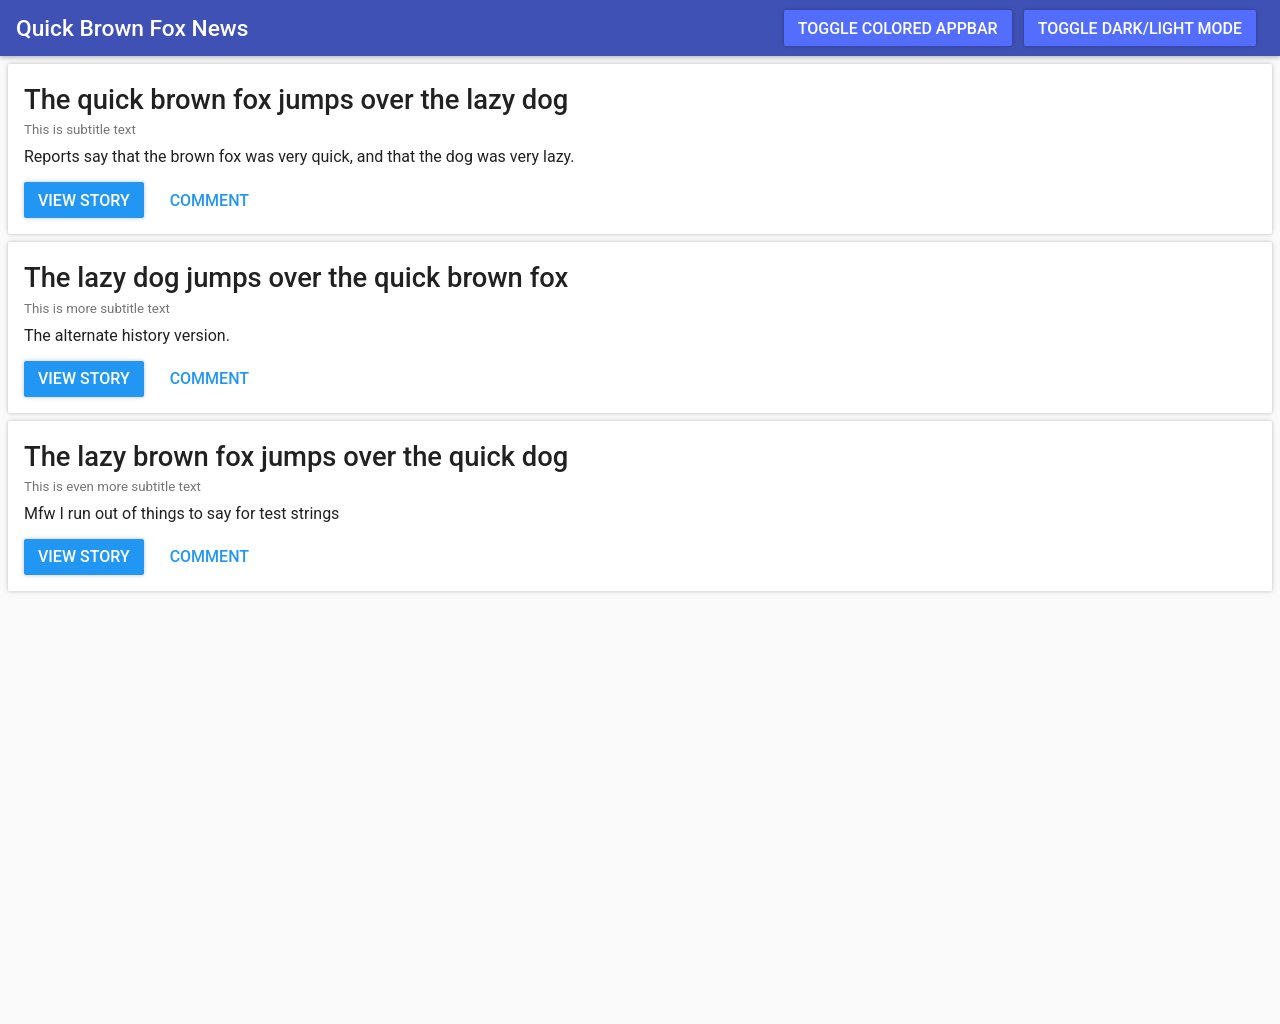
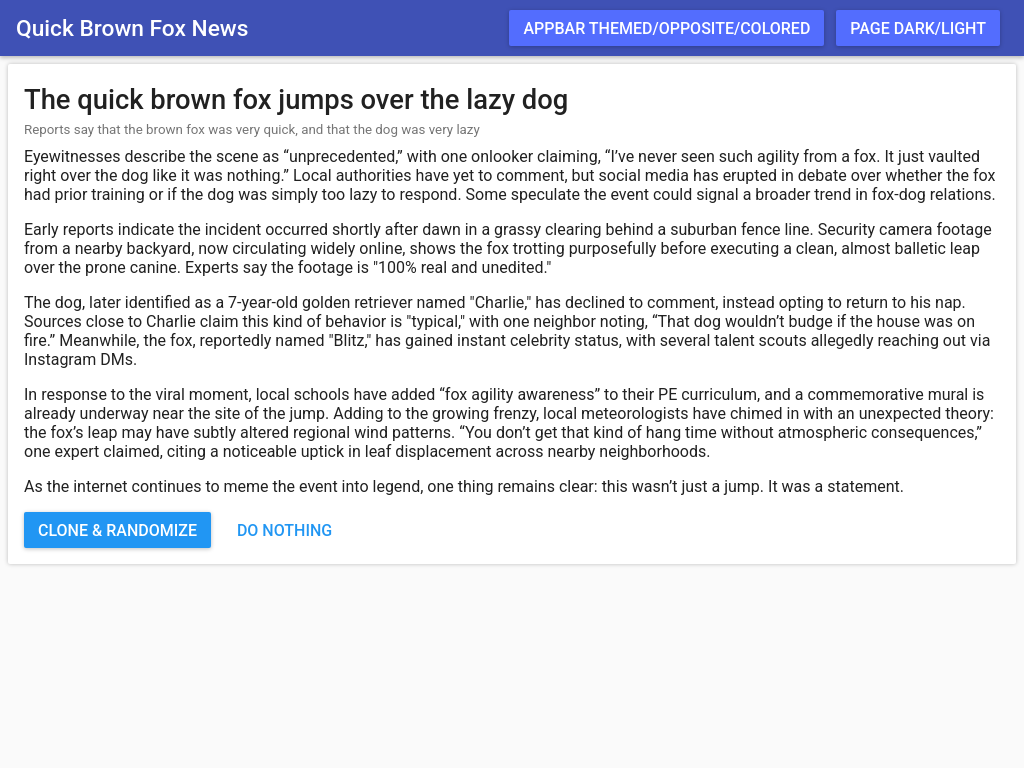
readme & example improvements, add opposite navbar, slight button-related changes

Changed region(s): [[0.0, 0.0, 1.0, 0.5938], [0.0, 0.625, 0.875, 0.7188]]

diff --git a/md1/example/basic-cards-appbar.html b/md1/example/basic-cards-appbar.html
@@ -10,15 +10,58 @@
         <link rel="stylesheet" href="../card.css">
         <link rel="stylesheet" href="../color.css">
         <link rel="stylesheet" href="../main.css">
+    </head>
+    <body class="mm mm-md1 mm-theme-light mm-primary-indigo mm-secondary-blue">
+        <header class="mm-appbar mm-appbar-colored">
+            <div class="mm-appbar-left">
+                <h2>Quick Brown Fox News</h2>
+            </div>
 
-        <script defer>
-            function appbarToggle() {
+            <div class="mm-appbar-right">
+                <button class="mm-button-raised" onclick="appbarCycle()">Appbar themed/opposite/colored</button>
+                <button class="mm-button-raised" onclick="darkModeToggle()">Page dark/light</button>
+            </div>
+        </header>
+
+        <div class="mm-content">
+            <div class="mm-card">
+                <h1>The quick brown fox jumps over the lazy dog</h1>
+                <small>Reports say that the brown fox was very quick, and that the dog was very lazy</small>
+                <p>Eyewitnesses describe the scene as “unprecedented,” with one onlooker claiming,
+                    “I’ve never seen such agility from a fox. It just vaulted right over the dog like it was nothing.”
+                    Local authorities have yet to comment, but social media has erupted in debate over whether the fox had prior training
+                    or if the dog was simply too lazy to respond. Some speculate the event could signal a broader trend in fox-dog relations.</p>
+
+                <p>Early reports indicate the incident occurred shortly after dawn in a grassy clearing behind a suburban fence line.
+                    Security camera footage from a nearby backyard, now circulating widely online, shows the fox trotting purposefully before executing
+                    a clean, almost balletic leap over the prone canine. Experts say the footage is "100% real and unedited."</p>
+
+                <p>The dog, later identified as a 7-year-old golden retriever named "Charlie," has declined to comment, instead opting to return to his nap.
+                    Sources close to Charlie claim this kind of behavior is "typical," with one neighbor noting, “That dog wouldn’t budge if the house was on fire.”
+                    Meanwhile, the fox, reportedly named "Blitz," has gained instant celebrity status, with several talent scouts allegedly reaching out via Instagram DMs.</p>
+
+                <p>In response to the viral moment, local schools have added “fox agility awareness” to their PE curriculum, and a commemorative mural
+                    is already underway near the site of the jump. Adding to the growing frenzy, local meteorologists have chimed in with an unexpected
+                    theory: the fox’s leap may have subtly altered regional wind patterns. “You don’t get that kind of hang time without atmospheric
+                    consequences,” one expert claimed, citing a noticeable uptick in leaf displacement across nearby neighborhoods.</p>                    
+
+                <p>As the internet continues to meme the event into legend, one thing remains clear: this wasn’t just a jump. It was a statement.</p>
+                <button class="mm-button-raised" onclick="cloneAndRandomizeCard()">Clone & randomize</button>
+                <button class="mm-button-flat">Do nothing</button>
+            </div>
+        </div>
+
+        <script>
+            function appbarCycle() {
                 const appbar = document.querySelector('.mm-appbar');
+                const opposite = 'mm-appbar-opposite';
                 const colored = 'mm-appbar-colored';
 
-                if (appbar.classList.contains(colored)) appbar.classList.remove(colored);
-                else appbar.classList.add(colored);
+                if (appbar.classList.contains(colored)) appbar.classList.remove(colored); // colored -> themed
+                else if (appbar.classList.contains(opposite)) appbar.classList.replace(opposite, colored); // opposite -> colored
+                else appbar.classList.add(opposite); // themed → opposite
             }
+
 
             function darkModeToggle() {
                 const body = document.body;
@@ -28,44 +71,18 @@
                 if (body.classList.contains(dark)) body.classList.replace(dark, light);
                 else body.classList.replace(light, dark);
             }
+
+            function cloneAndRandomizeCard(count = 1) {
+                const card = document.querySelector('.mm-card');
+                const container = document.querySelector('.mm-content');
+                if (!card || !container) return;
+
+                for (let i = 0; i < count; i++) {
+                    const clone = card.cloneNode(true);
+                    clone.childNodes.forEach(el => el.textContent = el.textContent.split(' ').sort(() => Math.random() - 0.5).join(' '));
+                    container.appendChild(clone);
+                }
+            }
         </script>
-    </head>
-    <body class="mm mm-md1 mm-theme-light mm-primary-indigo mm-secondary-blue">
-        <header class="mm-appbar mm-appbar-colored">
-            <div class="mm-appbar-left">
-                <h2>Quick Brown Fox News</h2>
-            </div>
-
-            <div class="mm-appbar-right">
-                <button class="mm-appbar-button" onclick="appbarToggle()">toggle colored appbar</button>
-                <button class="mm-appbar-button" onclick="darkModeToggle()">toggle dark/light mode</button>
-            </div>
-        </header>
-
-        <div class="mm-content">
-            <div class="mm-card">
-                <h1>The quick brown fox jumps over the lazy dog</h1>
-                <small>This is subtitle text</small>
-                <p>Reports say that the brown fox was very quick, and that the dog was very lazy.</p>
-                <button class="mm-button-raised">View story</button>
-                <button class="mm-button-flat">Comment</button>
-            </div>
-
-            <div class="mm-card">
-                <h1>The lazy dog jumps over the quick brown fox</h1>
-                <small>This is more subtitle text</small>
-                <p>The alternate history version.</p>
-                <button class="mm-button-raised">View story</button>
-                <button class="mm-button-flat">Comment</button>
-            </div>
-
-            <div class="mm-card">
-                <h1>The lazy brown fox jumps over the quick dog</h1>
-                <small>This is even more subtitle text</small>
-                <p>Mfw I run out of things to say for test strings</p>
-                <button class="mm-button-raised">View story</button>
-                <button class="mm-button-flat">Comment</button>
-            </div>
-        </div>
     </body>
 </html>

diff --git a/md1/button.css b/md1/button.css
@@ -2,7 +2,7 @@
     cursor: pointer;
 }
 
-.mm-md1 .mm-button-raised, .mm-md1 .mm-appbar-button {
+.mm-md1 .mm-button-raised {
     min-width: 64px;
     min-height: 36px;
     font-weight: 500;
@@ -18,22 +18,27 @@
     background-color: var(--mm-secondary);
     color: var(--mm-on-secondary);
 
-    box-shadow: 0 0px 4px rgba(0, 0, 0, 0.25);
+    box-shadow: 0 1px 4px rgba(0, 0, 0, 0.25);
     transition: box-shadow 0.2s ease, background 0.2s ease;;
 }
 
-.mm-md1 .mm-appbar-button {
+.mm-md1 .mm-appbar .mm-button-raised {
     background-color: var(--mm-card-bg);
     color: var(--mm-title)
 }
 
-.mm-md1 .mm-appbar-colored .mm-appbar-button {
+.mm-md1 .mm-appbar-colored .mm-button-raised {
     background-color: var(--mm-primary-accent);
     color: var(--mm-on-primary-accent);
 }
 
-.mm-md1 .mm-button-raised:active, .mm-md1 .mm-appbar-button:active {
-    box-shadow: 0 4px 8px rgba(0, 0, 0, 0.25);
+.mm-md1 .mm-appbar-opposite .mm-button-raised {
+    background-color: var(--mm-opposite-card-bg);
+    color: var(--mm-opposite-title);
+}
+
+.mm-md1 .mm-button-raised:hover {
+    box-shadow: 0 3px 8px rgba(0, 0, 0, 0.25);
 }
 
 .mm-md1 .mm-button-flat {

diff --git a/md1/color.css b/md1/color.css
@@ -1,8 +1,14 @@
+/* holy SHIT this is bad. Refactor ASAP!! */
+
 /* general themes */
 .mm-theme-light {
     --mm-bg: #FAFAFA;
     --mm-card-bg: #FFF;
     --mm-appbar-bg: #F5F5F5;
+
+    --mm-opposite-card-bg: #424242;
+    --mm-opposite-appbar-bg: #212121;
+    --mm-opposite-title: rgba(255, 255, 255, 1);
 
     --mm-title: rgba(0, 0, 0, 0.87);
     --mm-subtitle: rgba(0, 0, 0, 0.54);
@@ -13,6 +19,10 @@
     --mm-bg: #303030;
     --mm-card-bg: #424242;
     --mm-appbar-bg: #212121;
+
+    --mm-opposite-card-bg: #FFF;
+    --mm-opposite-appbar-bg: #F5F5F5;
+    --mm-opposite-title: rgba(0, 0, 0, 0.87);
     
     --mm-title: rgba(255, 255, 255, 1);
     --mm-subtitle: rgba(255, 255, 255, 0.7);

diff --git a/md1/appbar.css b/md1/appbar.css
@@ -6,6 +6,9 @@
     justify-content: space-between;
     align-items: center;
 
+    position:sticky;
+    top:0;
+
     padding: 0 16px;
     box-shadow: 0 2px 4px rgba(0, 0, 0, 0.25);
 
@@ -16,5 +19,10 @@
 
 .mm-md1 .mm-appbar-colored {
     background-color: var(--mm-primary);
-    color: var(--mm-on-primary)
+    color: var(--mm-on-primary);
+}
+
+.mm-md1 .mm-appbar-opposite {
+    background-color: var(--mm-opposite-appbar-bg);
+    color: var(--mm-opposite-title);
 }

diff --git a/md1/main.css b/md1/main.css
@@ -1,13 +1,13 @@
 .mm-md1 {
     margin: 0;
     background-color: var(--mm-bg);
-    color: var(--mm-on-bg);
+    color: var(--mm-paragraph);
 
     transition: background 0.2s ease;
 }
 
 .mm-md1 * {
-    font-family: 'Roboto', "San Francisco", 'Segoe UI', 'Helvetica', sans-serif;
+    font-family: 'Roboto', 'San Francisco', 'Segoe UI', 'Helvetica', sans-serif;
     box-sizing: border-box;
 }
 

diff --git a/md1/card.css b/md1/card.css
@@ -4,7 +4,6 @@
     margin-bottom: 8px;
 
     background-color: var(--mm-card-bg);
-    color: var(--mm-paragraph);
 
     box-shadow: 0 0px 4px rgba(0, 0, 0, 0.25);
     transition: box-shadow 0.2s ease, background 0.2s ease;

diff --git a/README.md b/README.md
@@ -6,6 +6,7 @@
 <img src="https://img.shields.io/endpoint?url=https://gist.githubusercontent.com/winksplorer/d94444342a1848c35de2e2bae7035a16/raw/allsize.json" alt="total size badge">
 </div>
 <sup>*After minification</sup>
+<hr>
 
 A tiny implementation of Material Design for use in lightweight web apps.
 
@@ -44,13 +45,17 @@ These screenshots were generated by the `screenshots` rule in the Makefile, whic
     - [X] Typography
         - [X] Fonts
         - [X] Scale
+    - [ ] Color
+        - [ ] Complete rework
+        - [ ] Primary (1/19)
+        - [ ] Secondary (1/19)
     - [ ] Components
-        - [ ] App bar / Navbar
+        - [X] App bar / Navbar
             - [X] Basic layout
             - [X] Shadows
             - [X] Theme colors (light/dark)
+            - [X] Opposite theme colors (light/dark)
             - [X] Primary colors
-            - [ ] Secondary colors
         - [ ] Cards
             - [X] Theme colors (light/dark)
             - [X] Shadows
@@ -64,8 +69,9 @@ These screenshots were generated by the `screenshots` rule in the Makefile, whic
                 - [X] Secondary colors
                 - [X] Shadows
                 - [X] Look basically identical
-                - [ ] Hover effects
+                - [X] Hover effects
                 - [ ] Click effects
+                - [ ] Disabled buttons
             - [ ] Flat buttons
                 - [ ] Theme colors (light/dark)
                 - [ ] Primary colors
@@ -73,6 +79,7 @@ These screenshots were generated by the `screenshots` rule in the Makefile, whic
                 - [X] Look basically identical
                 - [X] Hover effects
                 - [X] Click effects
+                - [ ] Disabled buttons
             - [ ] Floating action buttons
         - [ ] Sliders
         - [ ] Checkboxes
